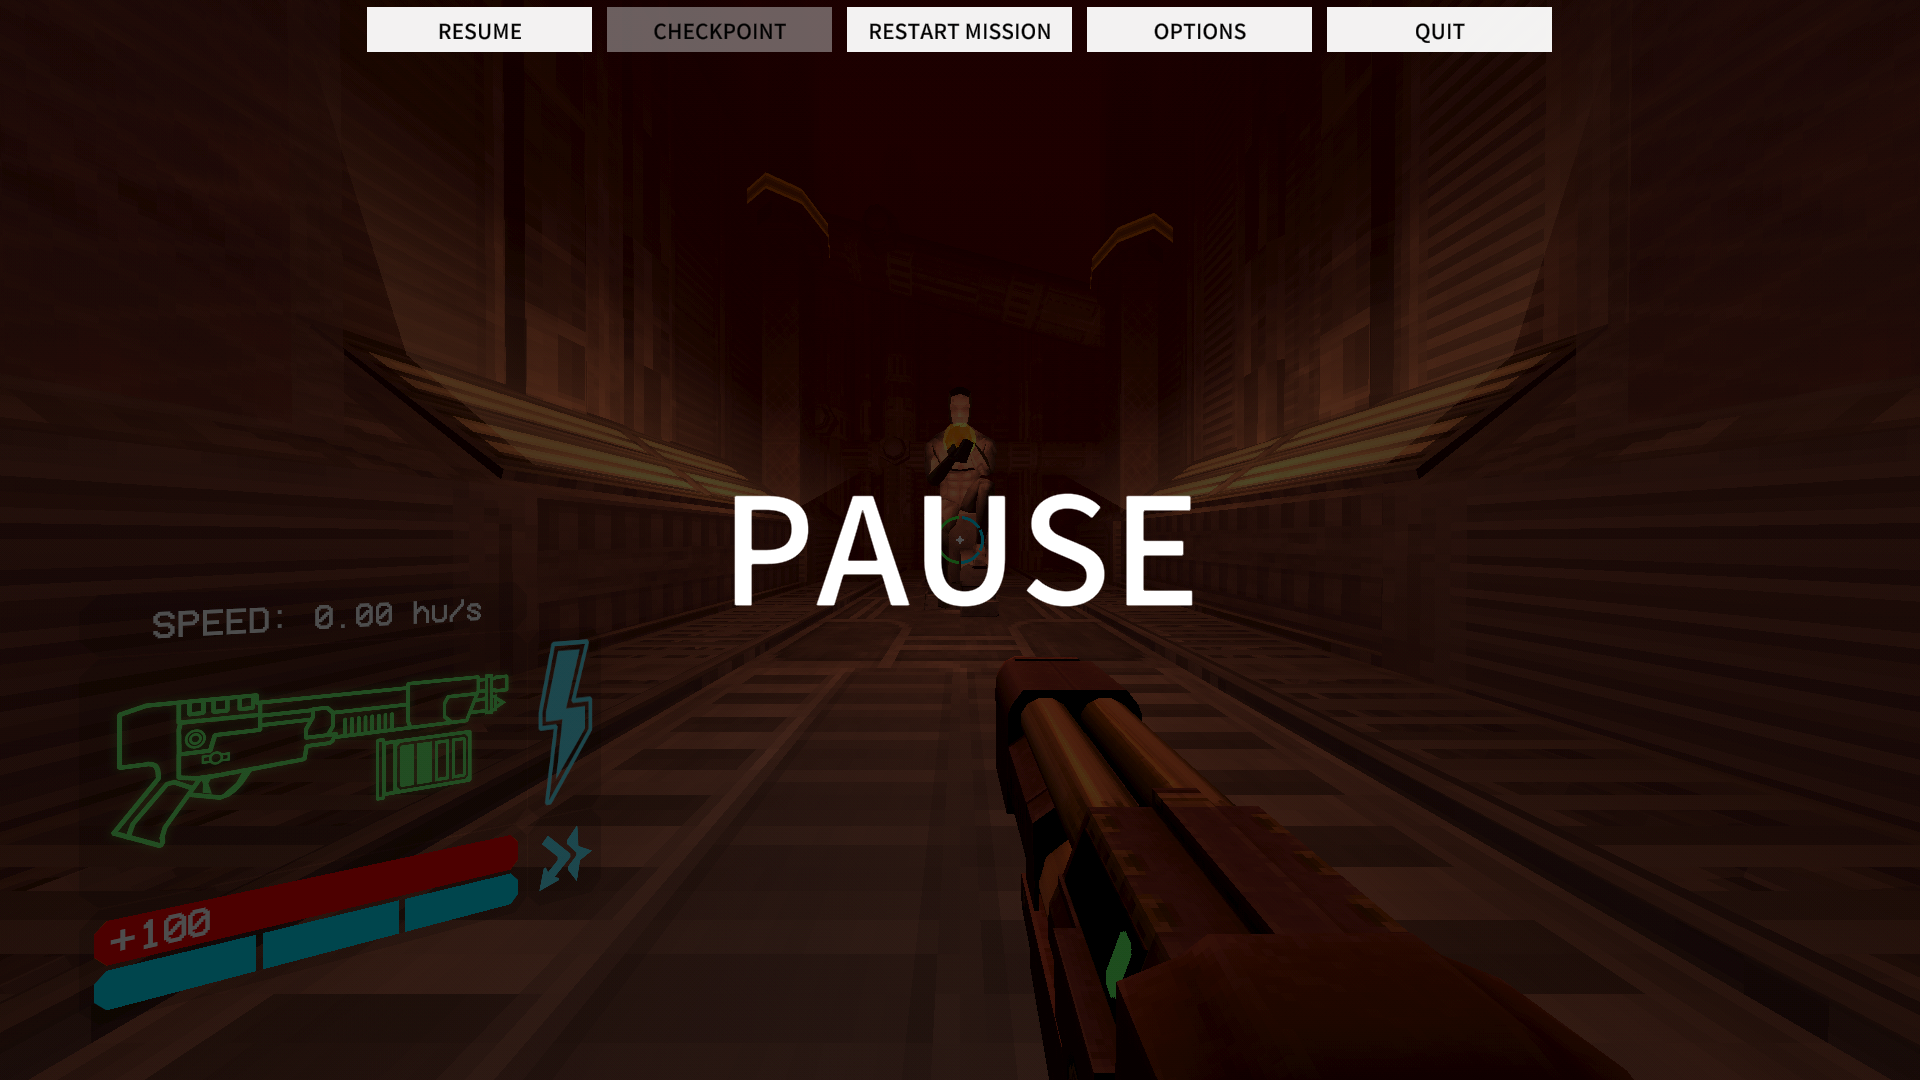
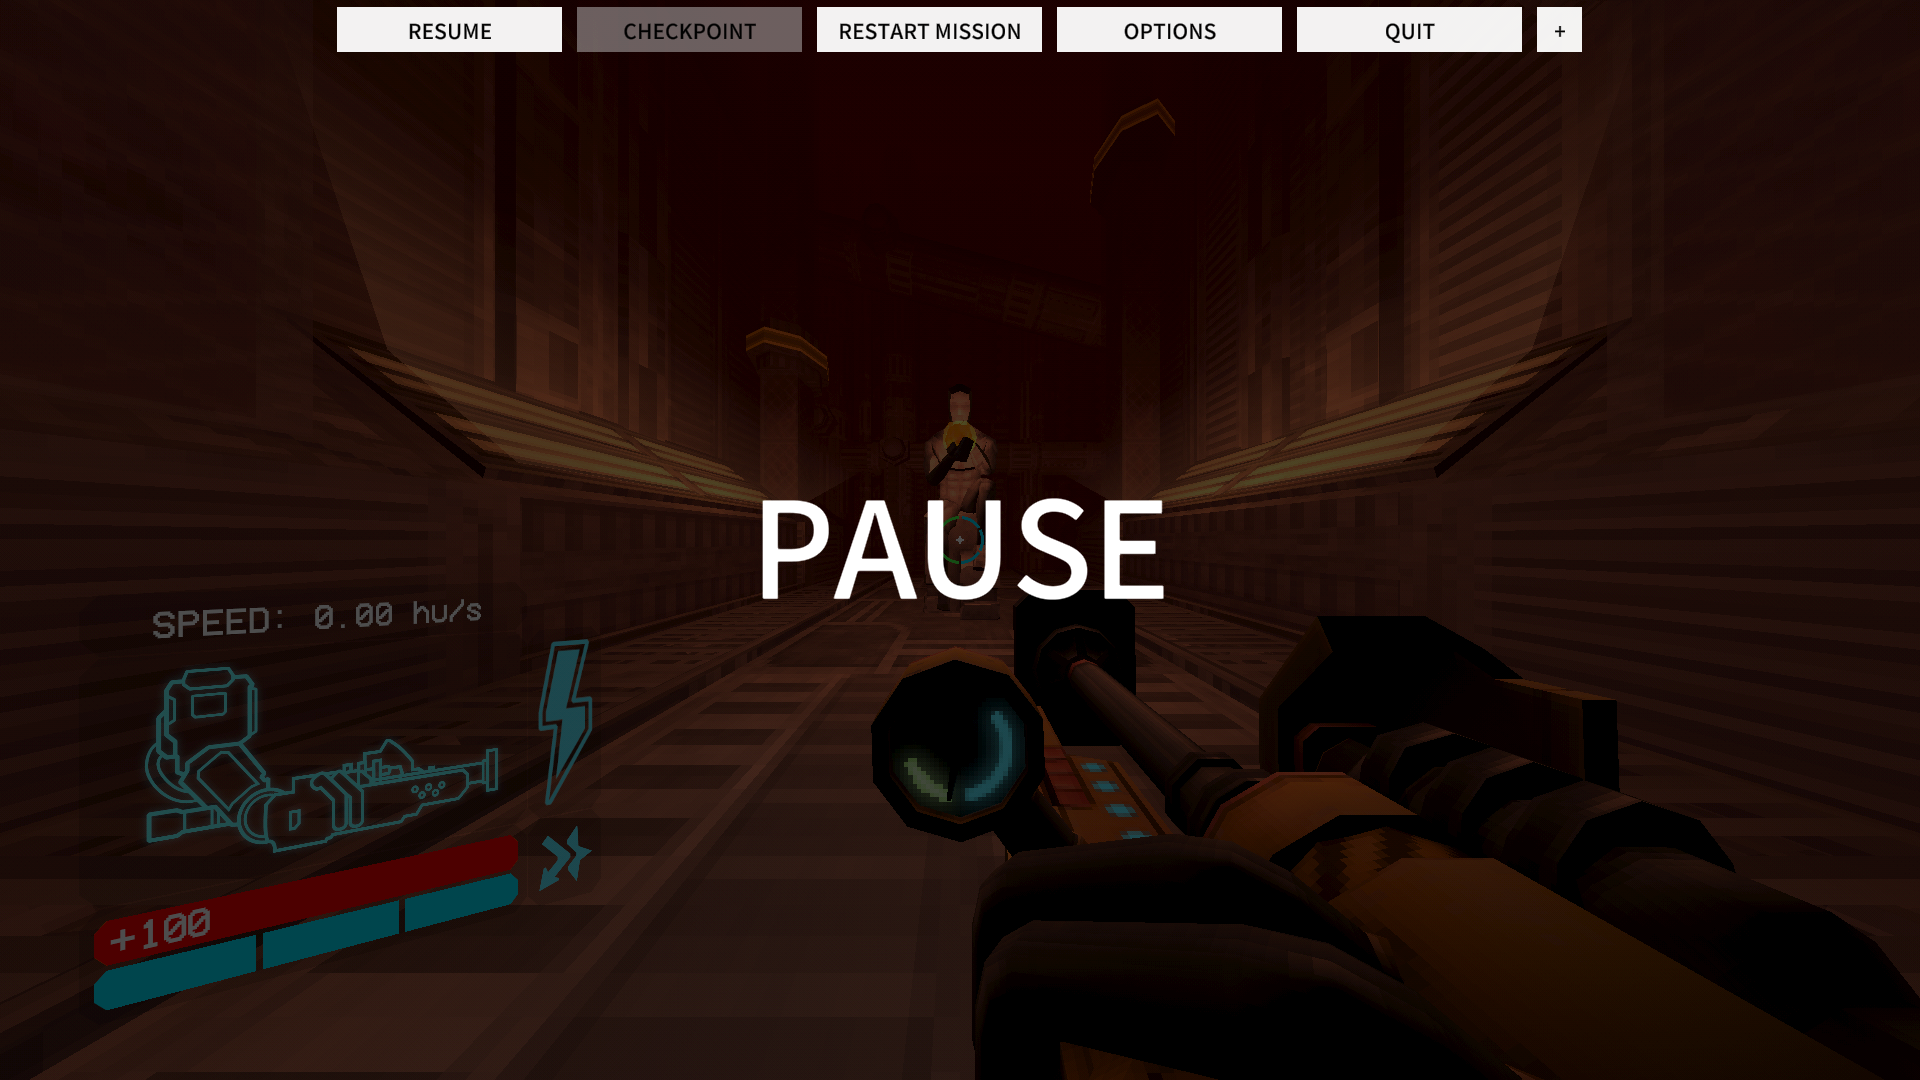
feat: added GamepadObjectSelector - added cn pause title

diff --git a/src/ZpPauseMenu.cs b/src/ZpPauseMenu.cs
@@ -6,17 +6,47 @@ using UnityEngine;
 
 namespace Hyw;
 
+public static class CNBtnState
+{
+    public static bool isActive = false;
+    public static string currentSymbol => isActive ? "-" : "+";
+}
+
 public class ZpPauseMenu : PauseMenuTemplate
 {
+    private GameObject titleObject;
+    private GameObject title_EN;
+    private GameObject title_CN;
+    private Button showTitleCNBtn;
+    
     protected override void OnPreSetup()
     {
         tmpAsset = AssetLoader.mediumNoto;
+        titleObject = new GameObject("TitleObject");
+        titleObject.transform.SetParent(this.transform, false);
+        titleObject.transform.localPosition = Vector3.zero;
+        titleObject.transform.localScale = Vector3.one * 0.9f;
     }
 
     protected override void OnPostSetup()
     {
         AddBackgroundImage();
         AddPausedText();
+        AddPausedTextCN();
+        title_CN.SetActive(CNBtnState.isActive);
+    }
+
+    protected override void SetupCustomContent()
+    {
+        showTitleCNBtn = AddButton(CNBtnState.currentSymbol, OnShowTitileCNClicked);
+        showTitleCNBtn.GetComponent<RectTransform>().sizeDelta = new Vector2(30, 30);
+    }
+
+    private void OnShowTitileCNClicked()
+    {
+        CNBtnState.isActive = !CNBtnState.isActive;
+        title_CN.SetActive(CNBtnState.isActive);
+        showTitleCNBtn.GetComponentInChildren<TextMeshProUGUI>().text = CNBtnState.currentSymbol;
     }
 
     private void AddBackgroundImage()
@@ -39,16 +69,17 @@ public class ZpPauseMenu : PauseMenuTemplate
 
     private void AddPausedText()
     {
-        var txtObj = new GameObject("Title");
-        txtObj.transform.SetParent(this.transform, false);
+        title_EN = new GameObject("Title_EN");
+        title_EN.transform.SetParent(titleObject.transform, false);
 
-        var txt = txtObj.AddComponent<TextMeshProUGUI>();
+        var txt = title_EN.AddComponent<TextMeshProUGUI>();
         txt.text = "PAUSE";
         txt.fontSize = 100;
         txt.alignment = TextAlignmentOptions.Center;
         txt.raycastTarget = false;
         txt.font = AssetLoader.mediumNoto;
-
+        txt.enableKerning = false;
+        txt.characterSpacing = -2f;
         RectTransform rt = txt.rectTransform;
 
         rt.anchorMin = new Vector2(0.5f, 0.5f);
@@ -57,6 +88,34 @@ public class ZpPauseMenu : PauseMenuTemplate
         rt.pivot = new Vector2(0.5f, 0.5f);
 
         rt.anchoredPosition = Vector2.zero;
+
+        rt.sizeDelta = new Vector2(500, 100);
+    }
+
+    private void AddPausedTextCN()
+    {
+        title_CN = new GameObject("Title_CN");
+        title_CN.transform.SetParent(titleObject.transform, false);
+
+        var txt = title_CN.AddComponent<TextMeshProUGUI>();
+        txt.text = "----暂停中----";
+        txt.fontSize = 30;
+        txt.alignment = TextAlignmentOptions.Center;
+        txt.raycastTarget = false;
+        txt.font = AssetLoader.mediumNoto;
+        txt.enableKerning = false;
+        txt.characterSpacing = -1f;
+        Plugin.Logger.LogError(txt.characterSpacing);
+        
+
+        RectTransform rt = txt.rectTransform;
+
+        rt.anchorMin = new Vector2(0.5f, 0.5f);
+        rt.anchorMax = new Vector2(0.5f, 0.5f);
+
+        rt.pivot = new Vector2(0.5f, 0.5f);
+
+        rt.anchoredPosition = new Vector2(0, -75);
 
         rt.sizeDelta = new Vector2(500, 100);
     }

diff --git a/src/PauseMenuTemplate.cs b/src/PauseMenuTemplate.cs
@@ -1,4 +1,5 @@
 using System;
+using System.Collections.Generic;
 using UnityEngine;
 using UnityEngine.UI;
 using UnityEngine.Events;
@@ -13,8 +14,10 @@ public abstract class PauseMenuTemplate : MonoBehaviour
     protected Button optionsBtn;
     protected Button restartBtn;
     protected Button quitBtn;
+    protected List<Button> buttons = new List<Button>();
     protected PauseMenu pauseMenuScript;
     protected RectTransform buttonsContainer;
+    protected GamepadObjectSelector gamepadObjectSelector;
 
     protected TMP_FontAsset tmpAsset;
 
@@ -25,6 +28,7 @@ public abstract class PauseMenuTemplate : MonoBehaviour
         SetUpLayout();
         BuildFixedContent();
         SetupCustomContent();
+        SetExplicitNavigation();
         OnPostSetup();
     }
 
@@ -60,7 +64,26 @@ public abstract class PauseMenuTemplate : MonoBehaviour
         optionsBtn = AddButton("OPTIONS", OnOptionsClicked);
         quitBtn = AddButton("QUIT", OnQuitClicked);
 
-        gameObject.AddComponent<GamepadObjectSelector>();
+        gamepadObjectSelector = gameObject.AddComponent<GamepadObjectSelector>();
+
+        gamepadObjectSelector.mainTarget = resumeBtn.gameObject;
+    }
+    
+    private void SetExplicitNavigation()
+    {
+        for (int i = 0; i < buttons.Count; i++)
+        {
+            Navigation nav = new Navigation();
+            nav.mode = Navigation.Mode.Explicit;
+            
+            nav.selectOnRight = buttons[(i + 1) % buttons.Count];
+            nav.selectOnLeft = buttons[(i - 1 + buttons.Count) % buttons.Count];
+            
+            nav.selectOnDown = nav.selectOnRight;
+            nav.selectOnUp = nav.selectOnLeft;
+
+            buttons[i].navigation = nav;
+        }
     }
     protected virtual void OnResumeClicked() { OptionsMenuToManager.Instance.UnPause(); }
     protected virtual void OnCheckpointClicked() { OptionsMenuToManager.Instance.RestartCheckpoint(); }
@@ -103,7 +126,9 @@ public abstract class PauseMenuTemplate : MonoBehaviour
 
         if (tmpAsset != null)
             tmp.font = tmpAsset;
-
+        
+        buttons.Add(btn);
+        
         return btn;
     }
 

diff --git a/README.md b/README.md
@@ -1,9 +1,11 @@
 ### Hyw
 it changes pause menu, that's it!
 
-here's a screenshot:
+here's the screenshots:
 
 <img src="https://github.com/greycsont/Hyw/raw/master/asset/example.png">
+
+<img src="https://github.com/greycsont/Hyw/raw/master/asset/example2.png">
 
 <img src="https://github.com/greycsont/Hyw/raw/master/asset/Anan_hyw.png">
 
@@ -34,3 +36,5 @@ why I open up the cheats menu the CheatsController.Update will call OptionsMenu.
 unity's rendering logic is GOAT. who f knows that the last GameObject in the hierarchy is f the one rendered on top?
 
 何意味
+
+太zp了woc这暂停界面
